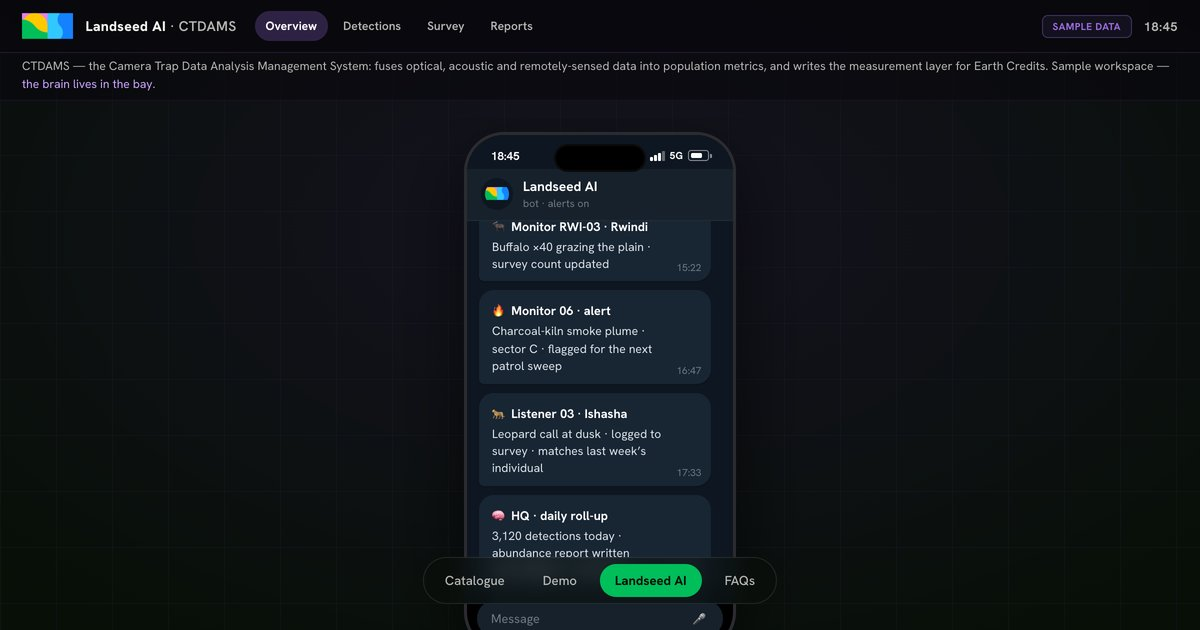
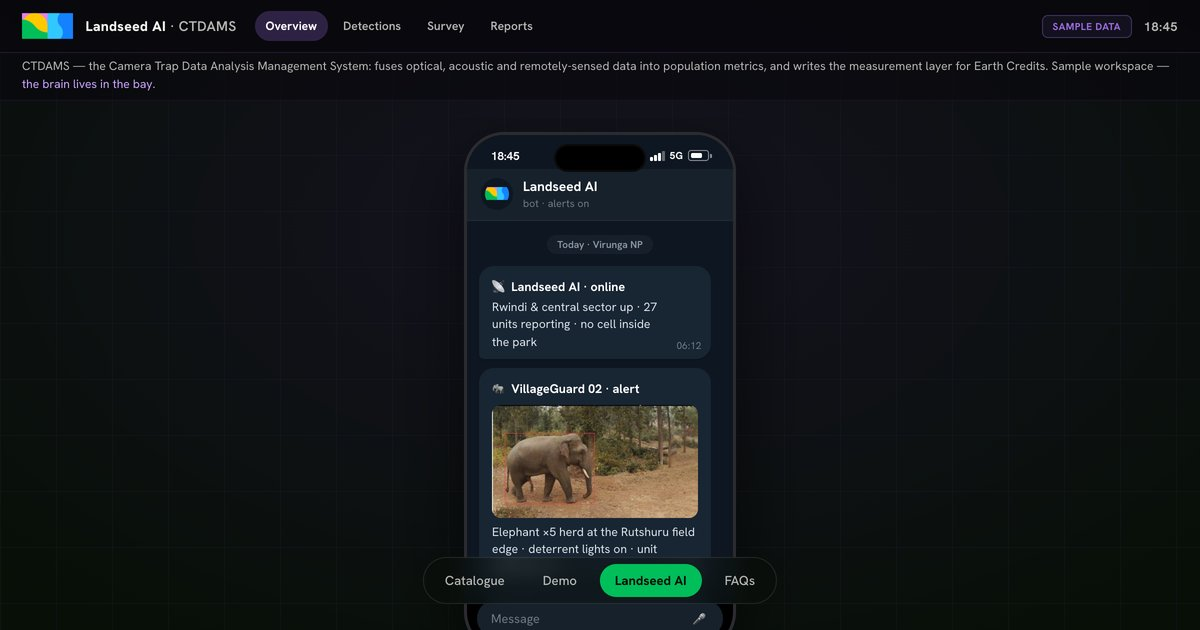
polish(ai): zoom out a bit more, feed starts top, photo alerts on the phone
Per Alex: pulled the camera back another ~5% so the bottom corners clear the
pane. The rangers' phone now reads top-down through the day (earliest first,
no bottom-anchor) and three alerts carry real field photos — the elephant herd
at the field edge, the poacher intrusion, and the Mikeno gorilla capture.

Claude-Session: https://claude.ai/code/session_011Vu961cjZmt2r8JBPQQDe1

Changed region(s): [[0.4008, 0.3317, 0.5858, 0.9048]]

diff --git a/ai/index.html b/ai/index.html
@@ -23,7 +23,7 @@
 <link rel="preconnect" href="https://fonts.gstatic.com" crossorigin>
 <link href="https://fonts.googleapis.com/css2?family=Hanken+Grotesk:wght@300;400;500;600;700;800&display=swap" rel="stylesheet">
 <link rel="stylesheet" href="/css/styles.css?v=30" />
-<link rel="stylesheet" href="/css/satellite.css?v=16" />
+<link rel="stylesheet" href="/css/satellite.css?v=17" />
 <link rel="modulepreload" href="https://unpkg.com/three@0.160.0/build/three.module.js" />
 <style>
 :root{--fa:#9B6CE0}
@@ -61,12 +61,12 @@
         <div class="tg-body">
           <div class="tg-day"><span>Today &middot; Virunga NP</span></div>
           <div class="tg-msg"><b>&#x1F4E1; Landseed AI &middot; online</b><span>Rwindi &amp; central sector up &middot; 27 units reporting &middot; no cell inside the park</span><em>06:12</em></div>
-          <div class="tg-msg"><b>&#x1F418; VillageGuard 02 &middot; alert</b><span>Elephant &times;5 herd at the Rutshuru field edge &middot; deterrent lights on &middot; unit walking out</span><em>07:48</em></div>
-          <div class="tg-msg"><b>&#x1F6A8; Monitor 07 &middot; alert</b><span>Human &times;3 on the Ishasha corridor &middot; no patrol logged nearby &middot; 0.96 confidence</span><em>08:31</em></div>
+          <div class="tg-msg tg-photo"><b>&#x1F418; VillageGuard 02 &middot; alert</b><img src="/demo/assets/field/elephant-walk.jpg" alt="Elephant herd at the field edge" loading="lazy" /><span>Elephant &times;5 herd at the Rutshuru field edge &middot; deterrent lights on &middot; unit walking out</span><em>07:48</em></div>
+          <div class="tg-msg tg-photo"><b>&#x1F6A8; Monitor 07 &middot; alert</b><img src="/demo/assets/field/people-walk.jpg" alt="People on the trail" loading="lazy" /><span>Human &times;3 on the Ishasha corridor &middot; no patrol logged nearby &middot; 0.96 confidence</span><em>08:31</em></div>
           <div class="tg-msg"><b>&#x1F9E0; HQ &middot; alert delivered</b><span>LoRa &rarr; Relay Station &rarr; satellite &rarr; ops room &middot; rangers dispatched to Ishasha</span><em>08:33</em></div>
           <div class="tg-msg"><b>&#x1F99B; Monitor EDW-01 &middot; Lake Edward</b><span>Hippo pod &times;14 hauled out at first light &middot; logged to the survey layer</span><em>10:02</em></div>
           <div class="tg-msg"><b>&#x1F50A; Listener 07 &middot; fix</b><span>Gunshot signature &middot; sector G2 &middot; three-array bearing converged &middot; escalated to ops room</span><em>11:20</em></div>
-          <div class="tg-msg"><b>&#x1F98D; Monitor MIK-02 &middot; Mikeno</b><span>Bageni gorilla family sighted &middot; 12 individuals confirmed against the register</span><em>12:44</em></div>
+          <div class="tg-msg tg-photo"><b>&#x1F98D; Monitor MIK-02 &middot; Mikeno</b><img src="/demo/assets/field/multi-class.jpg" alt="Mikeno forest camera capture" loading="lazy" /><span>Bageni gorilla family sighted &middot; 12 individuals confirmed against the register</span><em>12:44</em></div>
           <div class="tg-msg"><b>&#x1F69A; Monitor 05 &middot; alert</b><span>Logging truck on the east road &middot; frame captured &middot; routed to phones + email</span><em>13:38</em></div>
           <div class="tg-msg"><b>&#x1F981; VillageGuard 01 &middot; note</b><span>Lion pair in the central savanna &middot; drifting toward the boundary &middot; watch posted</span><em>14:05</em></div>
           <div class="tg-msg"><b>&#x1F403; Monitor RWI-03 &middot; Rwindi</b><span>Buffalo &times;40 grazing the plain &middot; survey count updated</span><em>15:22</em></div>
@@ -158,6 +158,6 @@
   "three/addons/": "https://unpkg.com/three@0.160.0/examples/jsm/"
 } }
 </script>
-<script type="module" src="./ai.js?v=30"></script>
+<script type="module" src="./ai.js?v=31"></script>
 </body>
 </html>

diff --git a/ai/ai.js b/ai/ai.js
@@ -26,7 +26,7 @@ revealView('overview');
 
 /* ── the Virunga twin — 3D terrain (Overview) + 2D occupancy surface (Survey) ── */
 import { buildMap, sourcesHTML } from './map.js?v=1';
-import { buildTerrain } from './map3d.js?v=27';
+import { buildTerrain } from './map3d.js?v=28';
 
 const tip = document.createElement('div');
 tip.className = 'vmap-tip';
@@ -272,10 +272,9 @@ setInterval(() => {
   clock.textContent = `${String(Math.floor(minutes / 60)).padStart(2, '0')}:${String(minutes % 60).padStart(2, '0')}`;
 }, 20000);
 
-/* the phone opens on the latest alert — settle across the font-swap reflow */
+/* the phone opens at the top of the day's feed */
 const tgBody = document.querySelector('#phone .tg-body');
-let settle = 0;
-(function keep() { if (tgBody) tgBody.scrollTop = tgBody.scrollHeight; if (++settle < 40) requestAnimationFrame(keep); })();
+if (tgBody) tgBody.scrollTop = 0;
 
 /* headless-verification hook — same doctrine as __hw / __demo (repo CLAUDE.md) */
 window.__ai = {

diff --git a/css/satellite.css b/css/satellite.css
@@ -150,7 +150,7 @@ body.sat.ai-page{
 .tg-who b{display:block;font-size:13.5px;color:#fff;letter-spacing:0}
 .tg-who span{display:block;font-size:10.5px;color:#6c7883;margin-top:1px}
 .tg-body{flex:1;overflow-y:auto;display:flex;flex-direction:column;gap:9px;padding:12px;background:#0e1621;scrollbar-width:thin;scrollbar-color:rgba(240,240,234,.18) transparent}
-.tg-body>:first-child{margin-top:auto}
+.tg-body>:first-child{margin-top:0}
 .tg-day{display:flex;justify-content:center;padding:2px 0 3px}
 .tg-day span{font-size:10px;font-weight:600;color:#8b98a5;background:rgba(23,33,43,.85);padding:3px 10px;border-radius:999px}
 .tg-msg{max-width:96%;align-self:flex-start;background:#182533;border-radius:15px 15px 15px 5px;padding:9px 13px 8px;position:relative;box-shadow:0 1px 2px rgba(0,0,0,.25)}
@@ -159,6 +159,8 @@ body.sat.ai-page{
 .tg-msg em{position:absolute;right:10px;bottom:7px;font-style:normal;font-size:10px;color:#6c7883;font-variant-numeric:tabular-nums}
 .tg-input{display:flex;align-items:center;justify-content:space-between;margin:0 10px 12px;padding:8px 14px;border-radius:20px;background:#17212b;color:#6c7883;font-size:12.5px}
 .tg-mic{font-style:normal;filter:grayscale(1) brightness(1.4);opacity:.75}
+.tg-photo img{display:block;width:100%;border-radius:9px;margin-top:7px}
+.tg-photo span{margin-top:6px;padding-right:0}
 
 /* console product chrome — the CTDAMS app bar */
 .con-bar img{width:20px;height:20px;border-radius:5px;background:#0e1216;padding:2px}

diff --git a/ai/map3d.js b/ai/map3d.js
@@ -118,7 +118,7 @@ export async function buildTerrain(hostId, tip) {
   controls.minDistance = Wz * .55; controls.maxDistance = Wz * 1.5;
   controls.maxPolarAngle = 1.46; controls.minPolarAngle = .05;
   controls.target.set(0, hSpan * .12, 0);
-  camera.position.set(Wx * 1.65, Wz * .73, 0);
+  camera.position.set(Wx * 1.75, Wz * .775, 0);
   controls.autoRotate = false;
   controls.update();
   const refDist = camera.position.distanceTo(controls.target);   // depth-scale reference

diff --git a/faqs/index.html b/faqs/index.html
@@ -23,7 +23,7 @@
 <link rel="preconnect" href="https://fonts.gstatic.com" crossorigin>
 <link href="https://fonts.googleapis.com/css2?family=Hanken+Grotesk:wght@300;400;500;600;700;800&display=swap" rel="stylesheet">
 <link rel="stylesheet" href="/css/styles.css?v=30" />
-<link rel="stylesheet" href="/css/satellite.css?v=16" />
+<link rel="stylesheet" href="/css/satellite.css?v=17" />
 </head>
 <body class="sat">
 